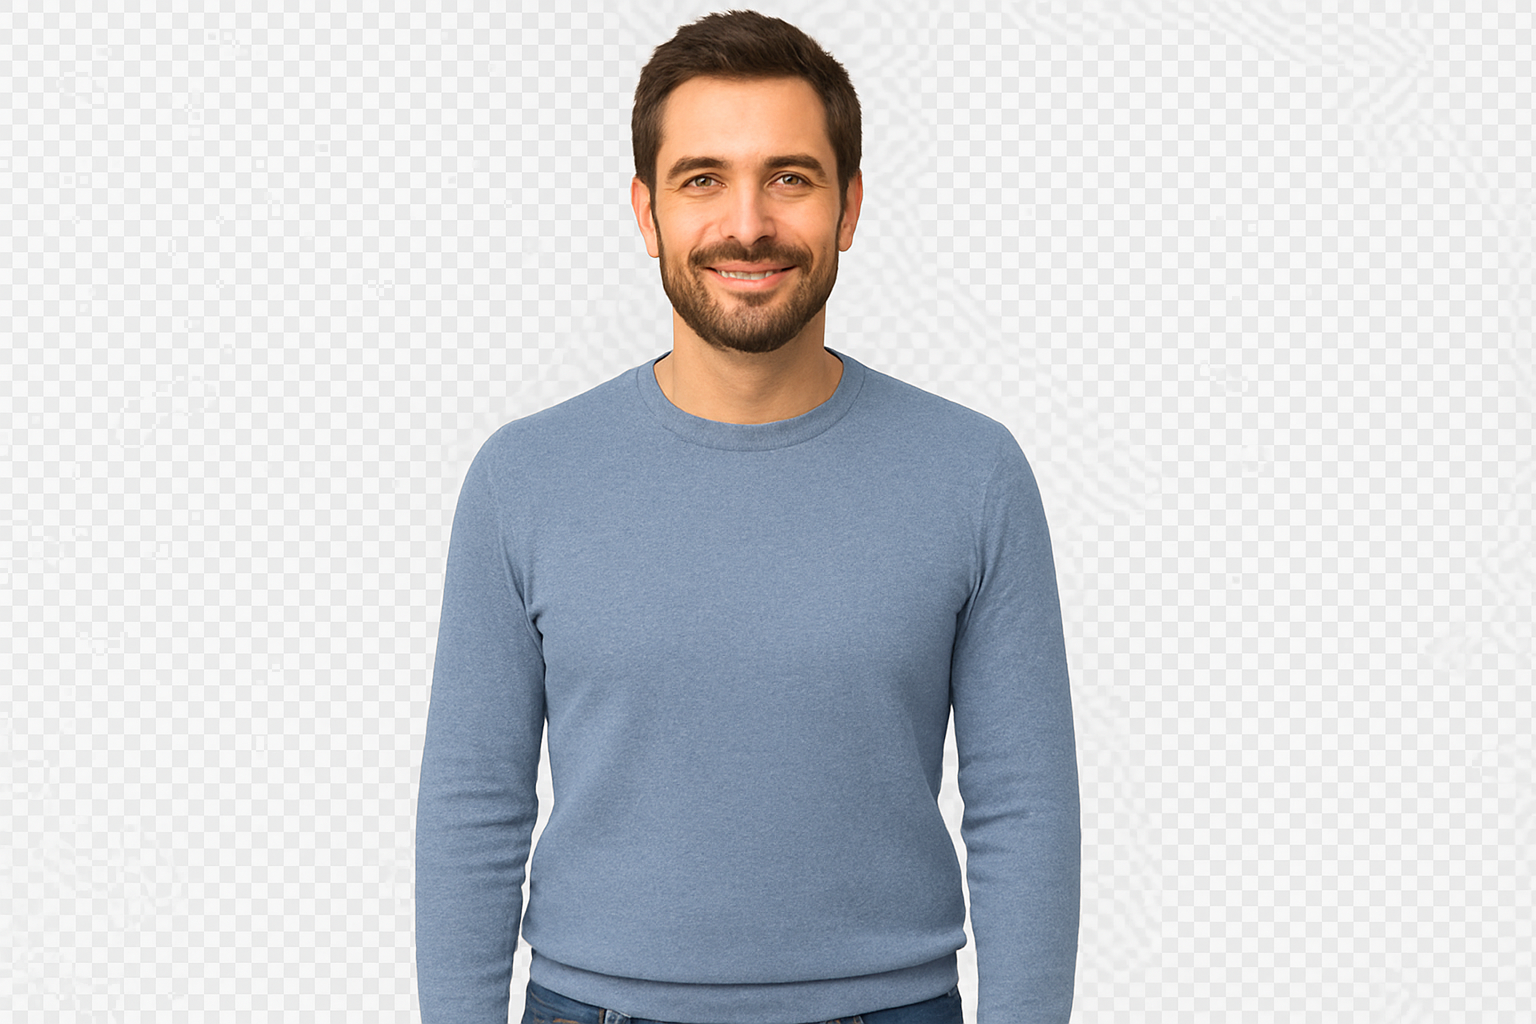
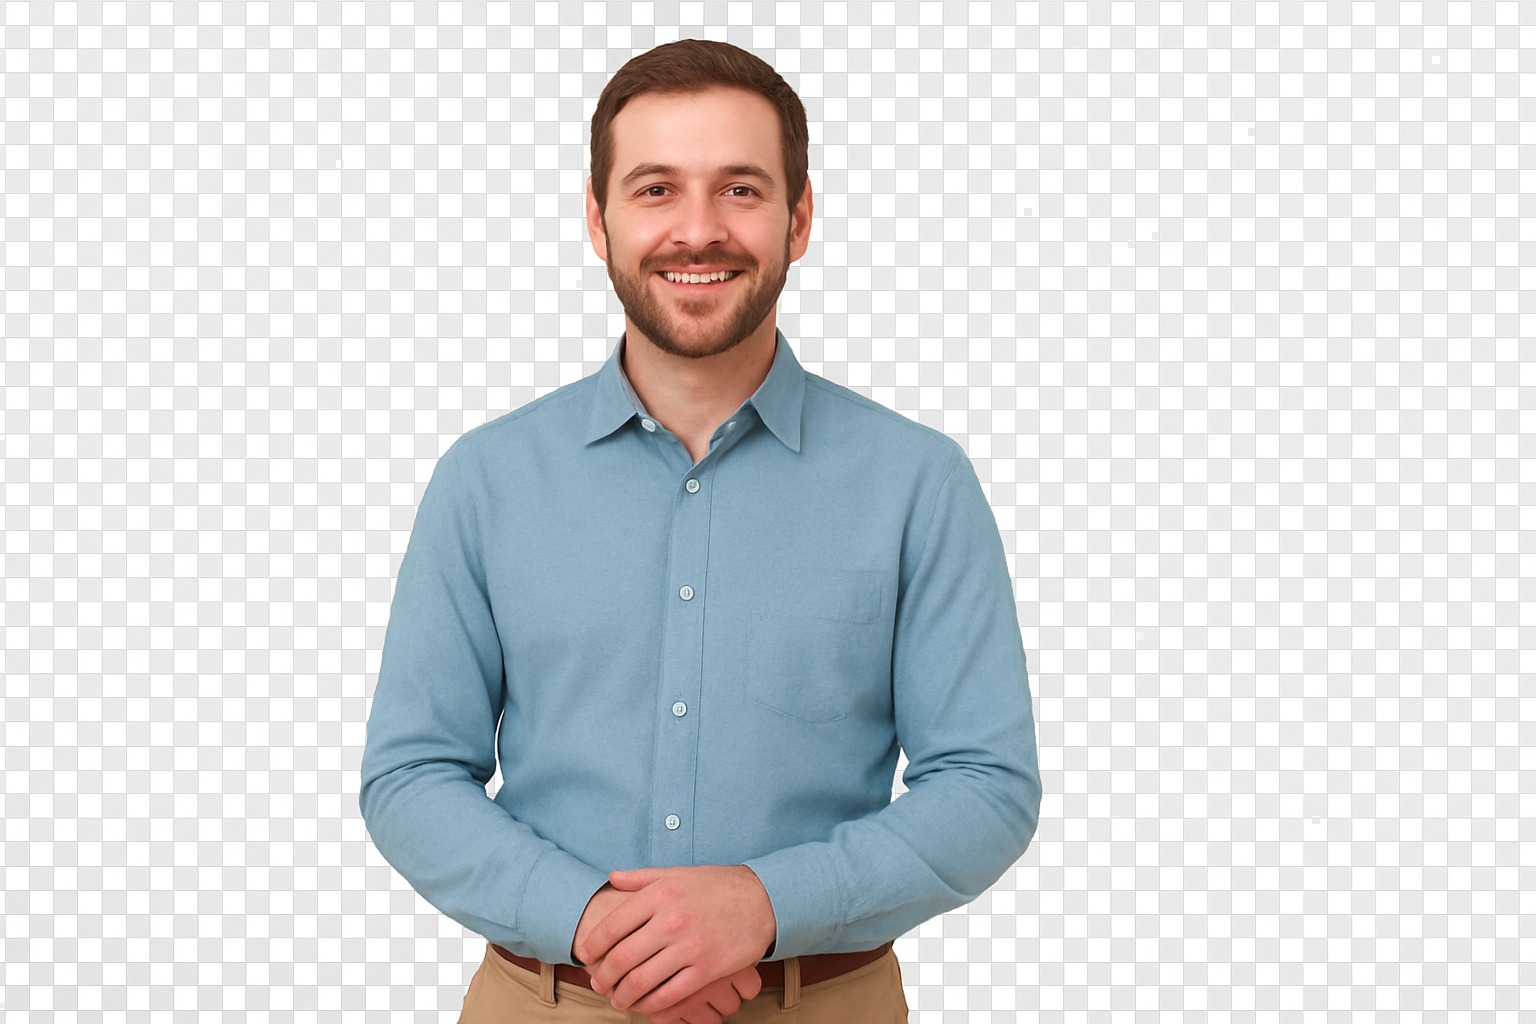
added references page

Changed region(s): [[0.2188, 0.0, 0.7188, 1.0]]

diff --git a/references.html b/references.html
@@ -33,7 +33,71 @@
       </nav>
     </header>
     <main>
-
+      <div class="main-left-container">
+          <div class="main-left-item3">
+              <div>
+                  <h1>Det här säger våra kunder om oss</h1>
+                  <p>Vi jobbar hårt för att ni ska känna att ni är i gott sällskap. Vi försöker möta alla våra kunders behov och anstränger oss alltid för att göra din vardag på nätet lite enklare.</p>
+              </div>
+          </div>
+      </div>
+      <div class="references-container">
+            <div class="references-item1">
+                <div>
+                    <img class="h-6" src="/img/five-stars.svg">
+                    <h3>Fixar resan på nolltid</h3>
+                    <p>Sed metus ex, convallis at sodales et, aliquet non ipsum. Fusce quis dolor ac tortor ullamcorper molestie. Pellentesque hendrerit posuere libero, eget fermentum odio pretium eu. Integer gravida nulla non viverra varius. Ut vehicula neque vitae neque vestibulum euismod. Sed eget tempor nisl.</p>
+                    <h3>Peter | <span>Kap Verde</span></h3>
+                    <p>Två dagar sedan</p>
+                </div>
+            </div>
+            <div class="references-item2">
+                <div>
+                    <img class="h-6" src="/img/five-stars.svg">
+                    <h3>Aldrig varit bättre</h3>
+                    <p>Sed metus ex, convallis at sodales et, aliquet non ipsum. Fusce quis dolor ac tortor ullamcorper molestie. Pellentesque hendrerit posuere libero, eget fermentum odio pretium eu. Integer gravida nulla non viverra varius. Ut vehicula neque vitae neque vestibulum euismod. Sed eget tempor nisl.</p>
+                    <p>Bla bla bla.</p>
+                    <h3>Viveka | <span>Thailand</span></h3>
+                    <p>Tre dagar sedan</p>
+                </div>
+            </div>
+            <div class="references-item3">
+                <div> 
+                    <img class="h-6" src="/img/five-stars.svg">
+                    <h3>Imponeras ständigt</h3>
+                    <p>Sed metus ex, convallis at sodales et, aliquet non ipsum. Fusce quis dolor ac tortor ullamcorper molestie. Pellentesque hendrerit posuere libero, eget fermentum odio pretium eu. Integer gravida nulla non viverra varius. Ut vehicula neque vitae neque vestibulum euismod. Sed eget tempor nisl.</p>
+                    <p>Mer text.</p>
+                    <h3>Catrin | <span>Kap Verde</span></h3>
+                    <p>En vecka sedan</p>
+                </div>
+            </div>
+            <div class="references-item4">
+                <div> 
+                    <img class="h-6" src="/img/five-stars.svg">
+                    <h3>Top. Freakin'. Notch.</h3>
+                    <p>Sed metus ex, convallis at sodales et, aliquet non ipsum. Fusce quis dolor ac tortor ullamcorper molestie. Pellentesque hendrerit posuere libero, eget fermentum odio pretium eu. Integer gravida nulla non viverra varius. Ut vehicula neque vitae neque vestibulum euismod. Sed eget tempor nisl.</p>
+                    <h3>Ben | <span>Kap Verde</span></h3>
+                    <p>En vecka sedan</p>
+                </div>
+            </div>
+            <div class="references-item5">
+                <div> 
+                    <img class="h-6" src="/img/five-stars.svg">
+                    <h3>Föredömlig kundtjänst</h3>
+                    <p>Sed metus ex, convallis at sodales et, aliquet non ipsum. Fusce quis dolor ac tortor ullamcorper molestie. Pellentesque hendrerit posuere libero, eget fermentum odio pretium eu. Integer gravida nulla non viverra varius. Ut vehicula neque vitae neque vestibulum euismod. Sed eget tempor nisl.</p>
+                    <h3>Richard | <span>Kap Verde</span></h3>
+                    <p>Två veckor sedan</p>
+                </div>
+            </div>
+            <div class="references-item6">
+                <div> 
+                    <img class="h-6" src="/img/five-stars.svg">
+                    <h3>Pakten är överlägna</h3>
+                    <p>Sed metus ex, convallis at sodales et, aliquet non ipsum. Fusce quis dolor ac tortor ullamcorper molestie. Pellentesque hendrerit posuere libero, eget fermentum odio pretium eu. Integer gravida nulla non viverra varius. Ut vehicula neque vitae neque vestibulum euismod. Sed eget tempor nisl.</p>
+                    <h3>Simone | <span>Kap Verde</span></h3>
+                    <p>En månad sedan</p>
+                </div>
+            </div>
     </main>
     <footer>
       <ul>

diff --git a/style.css b/style.css
@@ -267,6 +267,19 @@ main {
     text-align: center;
     background-color: #A889CB;
 }
+.main-left-item3 {
+    grid-row-start: 1;
+    grid-row-end: 2;
+    grid-column-start: 1;
+    grid-column-end: 3;
+    display: flex;
+    justify-content: center;
+    align-items: center;
+    text-align: center;
+    padding: 4em;
+    background-color: #A889CB;
+}
+
 .history-left-container {
     display: grid;
     padding: 0em;
@@ -392,12 +405,7 @@ main {
     text-align: center;
     background-color: #E085C2;
 }
-.main-container {
-    background-color: #A09797;
-}
-.main-container h2 {
-    text-align: center;
-}
+
 
 .cards-container {
     display: grid;
@@ -441,6 +449,72 @@ main {
     grid-row-end: 1;
     grid-column-start: 3;
     grid-column-end: 4;
+}
+
+ .references-container {
+    display: grid;
+    grid-template-rows: auto auto;
+    grid-template-columns: 1fr 1fr 1fr;
+}
+.references-item1, .references-item2, .references-item3, .references-item4, .references-item5, .references-item6, .references-item8 {
+    padding: 2em;
+}
+div[class^="references-item"] {
+    text-align: center;
+}
+.references-item1 {
+    grid-row-start: 1;
+    grid-row-end: 2;
+    grid-column-start: 1;
+    grid-column-end: 2;
+    background-color: #E085C2;
+    display: flex;
+    align-items: flex-start;
+}
+.references-item2 {
+    grid-row-start: 1;
+    grid-row-end: 2;
+    grid-column-start: 2;
+    grid-column-end: 3;
+    background-color: #D9D9D9;
+    display: flex;
+    align-items: flex-start;
+}
+.references-item3 {
+    grid-row-start: 1;
+    grid-row-end: 2;
+    grid-column-start: 3;
+    grid-column-end: 4;
+    background-color: #7CE5CD;
+    display: flex;
+    align-items: flex-start;
+}
+.references-item4 {
+    grid-row-start: 2;
+    grid-row-end: 3;
+    grid-column-start: 1;
+    grid-column-end: 2;
+    background-color: #D9D9D9;
+    display: flex;
+    align-items: flex-start;
+}
+.references-item5 {
+    grid-row-start: 2;
+    grid-row-end: 3;
+    grid-column-start: 2;
+    grid-column-end: 3;
+    background-color: #A889CB;
+    display: flex;
+    align-items: flex-start;
+}
+.references-item6 {
+    grid-row-start: 2;
+    grid-row-end: 3;
+    grid-column-start: 3;
+    grid-column-end: 4;
+    background-color: #D9D9D9;
+    display: flex;
+    align-items: flex-start;
 }
 
 footer {
